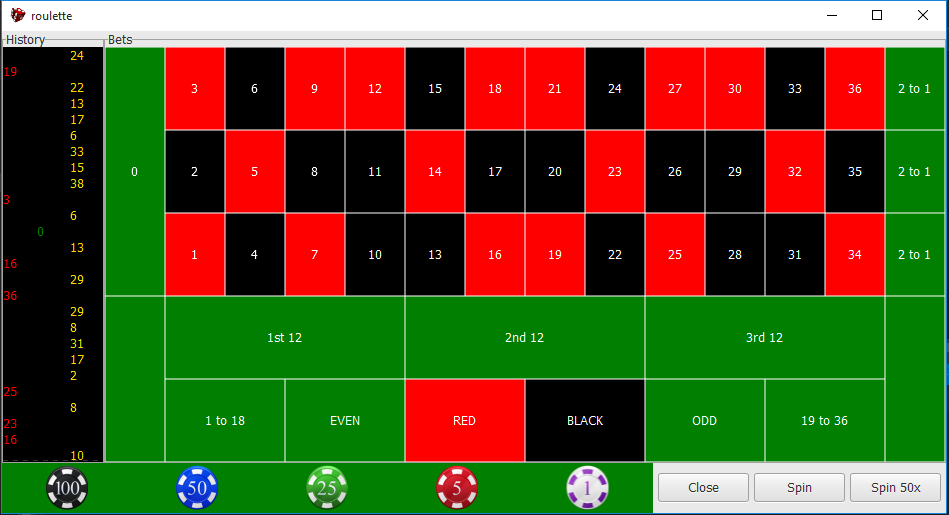
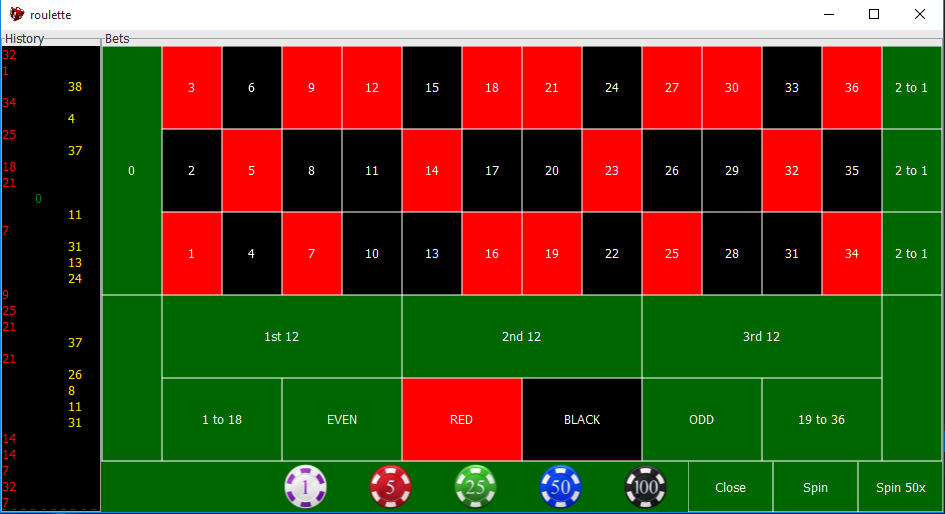
finalize table design

diff --git a/src/window.cc b/src/window.cc
@@ -33,8 +33,11 @@ Window::Window() :
 	mFrameBets("Bets")
 {
 	// Window options
+	int width = 500;
+	int height = 300;
+
 	set_title("roulette");
-	set_size_request(500, 300);
+	set_size_request(width, height);
 	set_position(Gtk::WIN_POS_CENTER);
 
 	if (boost::filesystem::exists("roulette.ico"))
@@ -43,33 +46,33 @@ Window::Window() :
 		set_icon(refIcon);
 	}
 
-	// packing
-	add(mVBoxTop);
-	mVBoxTop.pack_start(mHBoxArea);
-	mVBoxTop.pack_start(mHboxControls);
-
-	// history widnow
+	// begin packing
+	add(mHBoxTop);
+	
+	// PACKING from left to right
+	mHBoxTop.pack_start(mFrameHistory, Gtk::PACK_SHRINK); // history widnow
 	mFrameHistory.add(mHistory);
-	mHBoxArea.pack_start(mFrameHistory, Gtk::PACK_EXPAND_WIDGET);
+	mFrameHistory.set_size_request(width / 5, 0);
+	mHBoxTop.pack_start(mVBoxArea, Gtk::PACK_EXPAND_WIDGET);
 
-	// Table
+	// PACKING from top to bottom
+	mVBoxArea.pack_start(mFrameBets, Gtk::PACK_EXPAND_WIDGET); // Table
 	mFrameBets.add(mTable);
-	mHBoxArea.pack_start(mFrameBets, Gtk::PACK_EXPAND_WIDGET);
-
-	// buttons
-	mHboxControls.pack_end(mControlset, Gtk::PACK_SHRINK);
-
-	// buttonbox properties
+	mVBoxArea.pack_start(mHBoxControls, Gtk::PACK_SHRINK);
+	mHBoxControls.override_background_color(mBackground); // TODO: temporary background color
+	
+	// PACKING from right to left
+	mHBoxControls.pack_end(mControlset, Gtk::PACK_SHRINK); // Controlset
+	mHBoxControls.pack_end(mChipset, Gtk::PACK_SHRINK); // chipset
+	
+	// Controlset properties
 	mControlset.set_spacing(0);
 	mControlset.set_border_width(0);
-	mControlset.set_layout(Gtk::BUTTONBOX_END);
+	//mControlset.set_layout(Gtk::BUTTONBOX_END);
 
-	// chipset
-	mHboxControls.pack_end(mChipset, Gtk::PACK_EXPAND_WIDGET);
-
+	// Chipset properties
 	mChipset.set_spacing(0);
 	mChipset.set_border_width(0);
-	//mChipset.set_layout(Gtk::BUTTONBOX_END);
 
 	show_all();
 

diff --git a/src/table.cc b/src/table.cc
@@ -25,8 +25,10 @@ along with this program. If not, see http://www.gnu.org/licenses.
 
 Table::Table(Gdk::RGBA& color)
 {
-	add(mGrid);
-	override_background_color(color);
+	pack_end(mGrid, Gtk::PACK_EXPAND_WIDGET);
+
+	mGrid.set_column_homogeneous(true);
+	mGrid.set_row_homogeneous(true);
 
 	// zero
 	mFields.push_back(new Field(color, 0));

diff --git a/src/chipset.cc b/src/chipset.cc
@@ -35,5 +35,6 @@ Chipset::Chipset(Gdk::RGBA& color) :
 	pack_end(mChip50, Gtk::PACK_SHRINK);
 	pack_end(mChip100, Gtk::PACK_SHRINK);
 
-	override_background_color(color);
+	// TODO: temporary background color
+	// override_background_color(color);
 }

diff --git a/src/History.cc b/src/History.cc
@@ -35,7 +35,7 @@ History::History() :
 	mTagGreen(Gtk::TextBuffer::Tag::create())
 {
 	// window properties
-	set_size_request(100, 0);
+	//set_size_request(100, 0);
 	set_policy(Gtk::POLICY_NEVER, Gtk::POLICY_AUTOMATIC);
 
 	// packing

diff --git a/src/controlset.cc b/src/controlset.cc
@@ -31,5 +31,5 @@ Controlset::Controlset(Gdk::RGBA& color) :
 	pack_end(mBtnSpin, Gtk::PACK_SHRINK);
 	pack_end(mBtnSpin50, Gtk::PACK_SHRINK);
 
-	override_background_color(color);
+	//override_background_color(color);
 }
